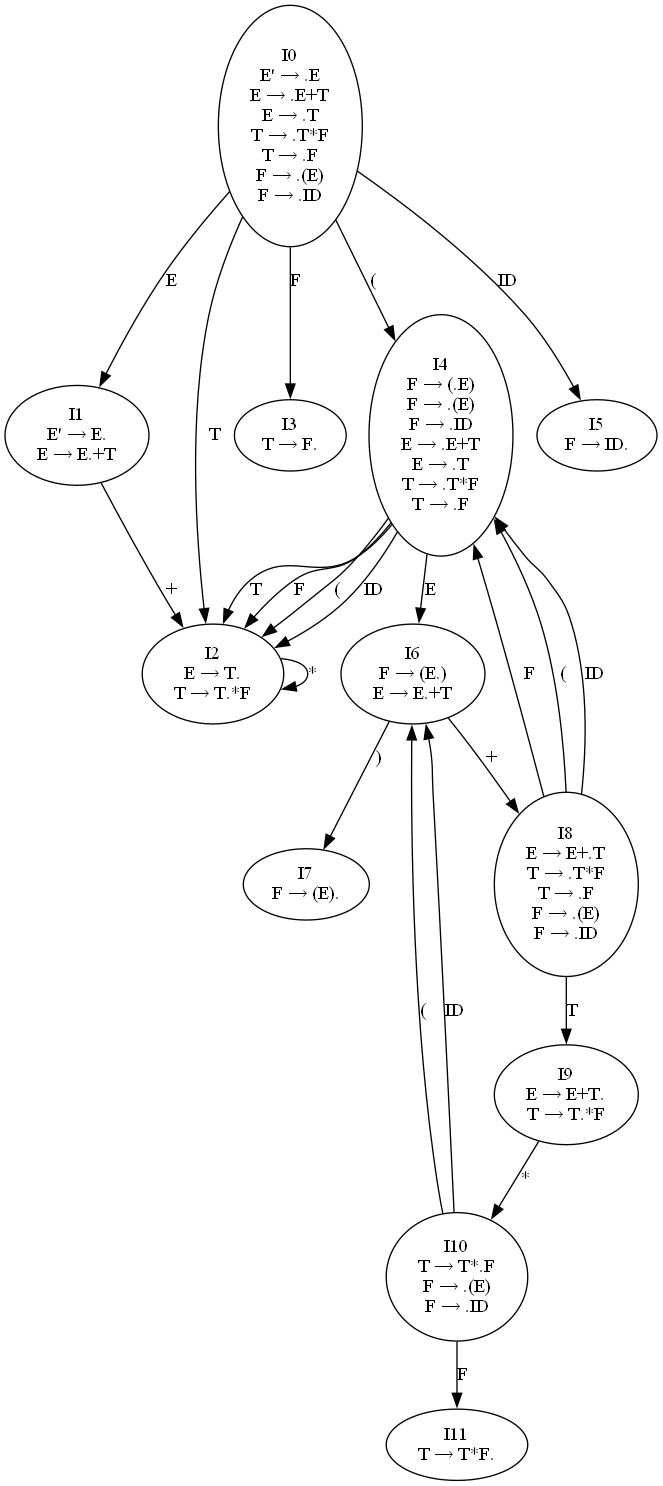
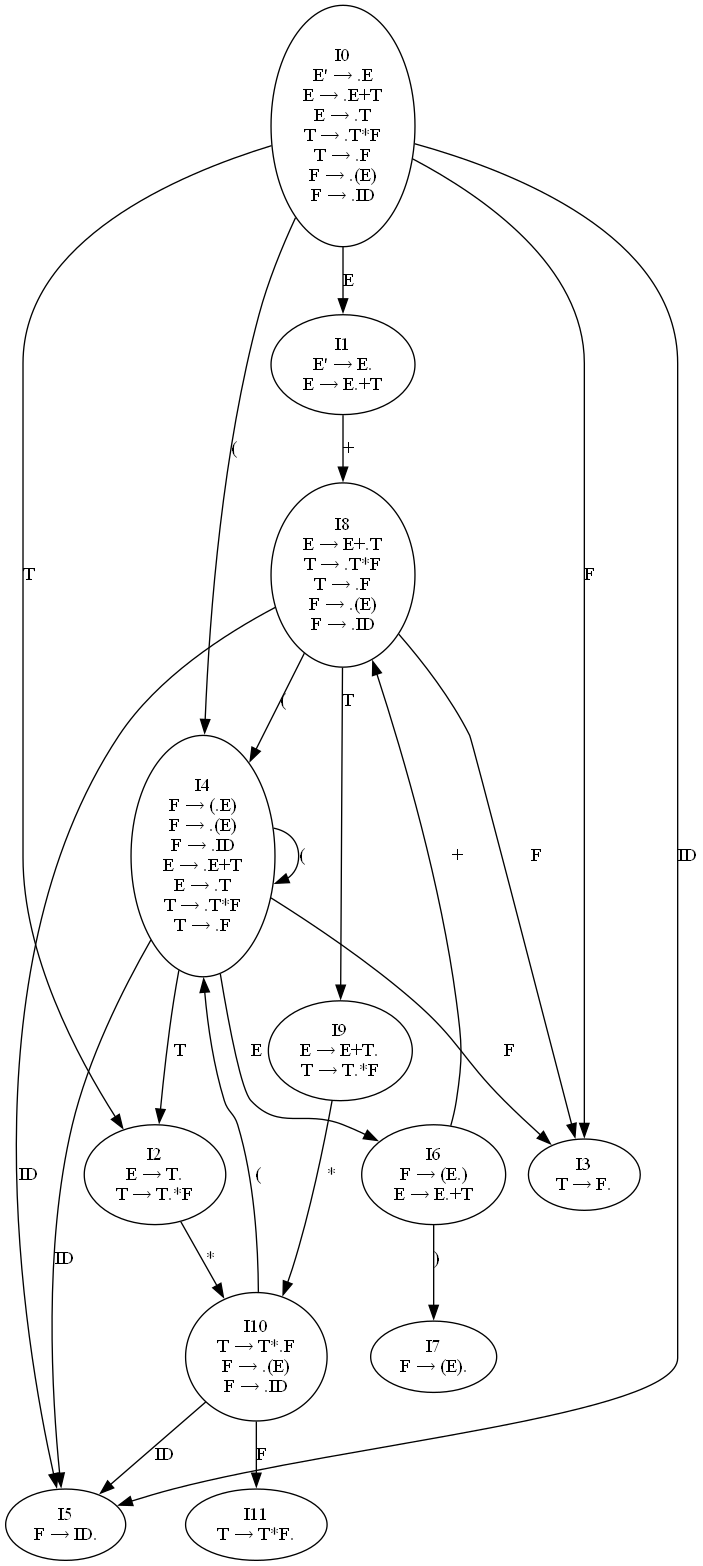
Video done, grammar tools done

diff --git a/pruebas/GrammarTools.py b/pruebas/GrammarTools.py
@@ -1,6 +1,15 @@
 from Grammar import Grammar
+from yalex_reader import build_regex, read_yalex_rules
+from AfnTools import createReAfn
+from ConjuntoAutomata import Conjunto, SyntaxAutomata
 
 conjuntos = dict()
+
+#res1 = {'E': ['(', 'ID'], 'T': ['(', 'ID'], 'F': ['(', 'ID']}
+#res2 = {'E': ['$', '+', ')'], 'T': ['*','$', '+', ')'], 'F': ['*','$', '+', ')']}
+
+res1 = {}
+res2 = {}
 
 #Recibe un simbolo y 
 def CheckEspsilon(Y, prod):
@@ -44,27 +53,110 @@ def primero(grammar: Grammar, X):
     true_temp = [[CheckEspsilon(symbol, producciones) for symbol in prod] for prod in temp]
     
     #Si X es un no terminal y hay una producción de la forma X-> y1y2..yk
-    if X in noterminales and temp:
-        for prod in range(len(temp)):
-            for symbol in range(len(temp[prod])):
-                if (new_symbol:=checkLeftRecursiveness(temp[prod][symbol], g.prod)):
-                    conjuntos[X].append(primero(g, new_symbol)) #primero(y1) pertenece a primero(X)
-                if symbol >0: #Para los siguientes símbolos
-                    if all(true_temp[prod][:symbol]):
-    
-                        new_symbol=checkLeftRecursiveness(temp[prod][symbol], g.prod)
-                        conjuntos[X].append(primero(g, new_symbol))
-                    elif all(true_temp[prod][symbol]):
-                        conjuntos[X].append('ε')
-    
+    if not grammar:
+        if X in noterminales and temp:
+            for prod in range(len(temp)):
+                for symbol in range(len(temp[prod])):
+                    if (new_symbol:=checkLeftRecursiveness(temp[prod][symbol], g.prod)):
+                        conjuntos[X].append(primero(g, new_symbol)) #primero(y1) pertenece a primero(X)
+                    if symbol >0: #Para los siguientes símbolos
+                        if all(true_temp[prod][:symbol]):
+        
+                            new_symbol=checkLeftRecursiveness(temp[prod][symbol], g.prod)
+                            conjuntos[X].append(primero(g, new_symbol))
+                        elif all(true_temp[prod][symbol]):
+                            conjuntos[X].append('ε')
+    return res1
+        
 
     
-def siguiente():
-    pass
+def siguiente(grammar, res_primero, X = None):
+    g = grammar
+    terminales = g.terminals
+    noterminales = g.nonterminals
+    producciones = g.prod
+    
+    if X not in conjuntos.keys():
+        conjuntos[X] = []
+        
+    #Si X es un terminal
+    if X in terminales:
+        conjuntos[X].append(X)
+        return
+    temp = list(producciones[X])
 
+    
+    #Si se tiene la producción X -> ε
+    if 'ε' in producciones[X]:
+        conjuntos[X].append('ε')
+        temp.remove('ε')
+        
+    #Recoger solo los temprales que tienen la forma y1y2...
+    temp = [i for i in temp if len(i)>=2]
+    
+    true_temp = [[CheckEspsilon(symbol, producciones) for symbol in prod] for prod in temp]
+    
+    #Si X es un no terminal y hay una producción de la forma X-> y1y2..yk
+    if not grammar:
+        if X in noterminales and temp:
+            for prod in range(len(temp)):
+                for symbol in range(len(temp[prod])):
+                    if (new_symbol:=checkLeftRecursiveness(temp[prod][symbol], g.prod)):
+                        conjuntos[X].append(primero(g, new_symbol)) #primero(y1) pertenece a primero(X)
+                    if symbol >0: #Para los siguientes símbolos
+                        if all(true_temp[prod][:symbol]):
+        
+                            new_symbol=checkLeftRecursiveness(temp[prod][symbol], g.prod)
+                            conjuntos[X].append(primero(g, new_symbol))
+                        elif all(true_temp[prod][symbol]):
+                            conjuntos[X].append('ε')
+    return res2
+
+
+def remove_comments(line):
+    if "/*" in line:
+        line = line[:line.index("/*")] + line[line.index("*/") + 2:]
+    return line
+
+
+def checkComments(line):
+    if "/*" in line:
+        return( "*/" in line[line.index("/*"):])
+    if "*/" in line:
+        return( "/*" in line[:line.index("*/")])
+    else:
+        return True
+    
+def checkTokenStructure(line):
+    if line[0]!="%":
+        return False
+    if len(line.split(' '))>2:
+        return False
+    if line.count('%')>1 and len(line)>2:
+        return False
+    if line[1]==" ":
+        return False
+    return True
+
+def checkProductionStructure(line):
+    
+    if line[0]!="|":
+        return False
+    if line.count('|')>1:
+
+        return False
+    if line[1]!=" ":
+        return False
+    return True
+    
+    
 
 def readYalp(filename):
     tokens = []
+    errors = []
+    line_counter = 1
+
+    
     removews = False
     getProductions = False
     productions = {}
@@ -84,48 +176,98 @@ def readYalp(filename):
     with open(filename, 'r', encoding='utf-8') as file:
         
         for line in file:
-            line = line.strip()
+            
+            # Remove comments and strip
+            if checkComments(line)==False:
+                errmess = f"Error en la línea {line_counter}. Comentario mal definido"
+                errors.append(errmess)
+
+            else:
+                line = remove_comments(line.strip())
+                
+          
+            
             if line[-1:] == "\n":
                 line = line[:-1]
             temp = line.split(" ")
-            if temp[0]== "%token":
-                tokens.append(temp[1])
+            if "%" in temp[0] and getProductions == False and '%%' not in temp[0]:
+                if checkTokenStructure(line)==False:
+                    errmess = f"Error en la línea {line_counter}. Token mal definido"
+                    errors.append(errmess)
+                else:
+                    tokens.append(temp[1])
             if temp[0]=='IGNORE':
                 removews = True
             if temp[0][:2]=="%%":
                 getProductions = True
+                line_counter+=1
+
                 continue
             if getProductions == True:
                 if temp[0]!="" and temp[0]!=";":
-                    if len(temp) < 2:
+                    if len(temp) < 2 and ':' in temp[0]:
                         idx = line.index(':')
                         symbol = line[:idx]
                         current_symbol = symbol.replace(symbol, trans_table[symbol])
                         productions[current_symbol] = []
                     else:
-                        if temp[0]=="|":
-                            temp2 = ''.join(temp[1:])
-                            for key in trans_table:
-                                temp2 = temp2.replace(key, trans_table[key])
-                            productions[current_symbol].append(temp2)
+                        if len(productions[current_symbol])>0:
+                            if checkProductionStructure(line)==False:
+                                errmess = f"Error en la línea {line_counter}. Error en la estructura de la produccion definida"
+                                errors.append(errmess)
+                            else:
+                                temp2 = ''.join(temp[1:])
+                                for key in trans_table:
+                                    temp2 = temp2.replace(key, trans_table[key])
+                                productions[current_symbol].append(temp2)
                         else:
                             temp2 = ''.join(temp)
                             for key in trans_table:
                                 temp2 = temp2.replace(key, trans_table[key])
                             productions[current_symbol].append(temp2)
+            line_counter+=1
+    if errors:
+        for i in errors:
+            print(i)
+        return None
 
     return productions, tokens
 
 
+
+def checkTokens(l1, l2):
+
+    for token in l2:
+        if token not in l1:
+            return False
+    return True
+
+
 if __name__ == '__main__':
-    prod = readYalp('./Yalp/slr-1.yalp')
-    
-    p1 = {'E':['E+T|T'], 'T':['T∗F|F']}
-    g = Grammar(*prod)
-    primero(g, g.initial)
-    print(conjuntos)
-    print('No Terminales: ', g.nonterminals)
-    print('Terminales: ', g.terminals)
-    print('Producciones: ', g.prod)
-    print('Tokens: ', g.tokens)
-    print('Inicial: ', g.initial)
+    if(prod:=readYalp('./Yalp/slr-1.yalp')):
+        afn = read_yalex_rules('./Yalp/slr-1.yal')
+        if(checkTokens(afn[1].values(), prod[1])):
+            g = Grammar(*prod)
+            print(" ")
+            print('No Terminales: ', g.nonterminals)
+            print('Terminales: ', g.terminals)
+            print('Producciones: ', g.prod)
+            print('Tokens: ', g.tokens)
+            print('Inicial: ', g.initial)
+            print(" ")
+            
+            p = primero(g, g.initial)
+            print(f'Primero: {p}')
+            
+            s = siguiente(g, p, X=g.initial)
+            print(f'Siguiente {s}')
+            
+            g.AugmentedGrammar()
+            
+            c0 = Conjunto(g, 0, corazon={g.initial: g.prod[g.initial]})
+
+            a1 = SyntaxAutomata(c0)
+            
+            a1.ShowGraph()
+        else:
+            print('Los tokens no son iguales entre archivos')

diff --git a/pruebas/ConjuntoAutomata.py b/pruebas/ConjuntoAutomata.py
@@ -1,5 +1,7 @@
 from Grammar import Grammar
-from GrammarTools import readYalp
+#from GrammarTools import readYalp
+from yalex_reader import build_regex, read_yalex_rules
+from AfnTools import createReAfn
 import networkx as nx
 import pydot
 from graphviz import Digraph
@@ -138,7 +140,7 @@ class SyntaxAutomata():
         self.edges = {}
         self.generateAutomata()
         self.changeNumbers()
-        #self.changeEdges()
+        self.changeEdges()
 
     def changeNumbers(self):
         for i in range(len(self.conjuntos)):
@@ -147,7 +149,7 @@ class SyntaxAutomata():
     def changeEdges(self):
         edges = self.edges
         new_edges = {}
-        
+
         visto = []
         
         #key -> tuple (conjunto1, conjunto2)
@@ -161,22 +163,23 @@ class SyntaxAutomata():
             if test[0]==False:
                 visto.append(a)
             else:
-                a = test[1]
+                a = visto[test[1]]
                 
             test = multicheck(vis, key[1].newprod)
             
             if test[0]==False:
                 visto.append(b)
             else:
-                b = test[1]
+                b = visto[test[1]]
                 
             new_edges[(a,b)] = value
+            
+        self.edges = new_edges.copy()
                 
             
             
                 
             
-        pass
 
     #Esta función sirve para sacar todos los conjuntos que pueden salir de un conjunto dado
     #Usa la función Ir_a para sacar dichos conjuntos. 
@@ -237,7 +240,7 @@ class SyntaxAutomata():
             print('')
             count +=1
             
-    def ShowGraph(self, name="graph.png"):
+    def ShowGraph(self, name="SyntaxAutomata"):
         G = Digraph(encoding='utf-8')
         
         for i in self.conjuntos:
@@ -254,7 +257,7 @@ class SyntaxAutomata():
             G.edge(str(key[0].number), str(key[1].number), label=value)
             
         
-        G.render(filename='SyntaxAutomata', directory='./outputs',format='png', view=True)
+        G.render(filename=name, directory='./outputs',format='png', view=True)
 
         
     
@@ -262,51 +265,16 @@ class SyntaxAutomata():
         
         
         
-if __name__ == '__main__':
-    if __name__ == '__main__':
-        prod = readYalp('./Yalp/slr-1.yalp')
+#if __name__ == '__main__':
+#    afn = read_yalex_rules('./Yalp/slr-1.yal')
+#    print(afn)
     
-    p1 = {'E':['E+T|T'], 'T':['T∗F|F']}
-    g = Grammar(*prod)
-    g.AugmentedGrammar()
-    #print(g.tokens)
-
-    c0 = Conjunto(g, 0, corazon={g.initial: g.prod[g.initial]})
-    
-    a1 = SyntaxAutomata(c0)
-    
-
-    a1.ShowGraph()
-    #for i in b:
-    #    print(i.newprod)
-    count = 1
-   
-    #b = a1.getConjuntos(c0)
-    
-
-    #print(c0.corazon)
-    #print('aaaaaa', c0.resto)
-    #c1 = c0.Ir_A('E')
-    #print(c1.newprod)
-    #print(c1.corazon)
-    #print(" ")
-    #
-    #c2 = c1.Ir_A('+')
-    #print(c2.corazon)
-    #print(c2.resto)
-    #print(" ")
-    #
-    #c3 = c2.Ir_A('T')
-    #print(c3.corazon)
-    #print(c3.resto)
-    #print(" ")
-    #
-    #c4 = c3.Ir_A('*')
-    #print(c4.corazon)
-    #print(c4.resto)
-#
-    ##print('No Terminales: ', g.nonterminals)
-    ##print('Terminales: ', g.terminals)
-    #print('Producciones: ', g.prod)
-    #print('Tokens: ', g.tokens)
-    #print('Inicial: ', g.initial)
+        #g = Grammar(*prod)
+        #g.AugmentedGrammar()
+        ##print(g.tokens)
+        #
+        #c0 = Conjunto(g, 0, corazon={g.initial: g.prod[g.initial]})
+        #
+        #a1 = SyntaxAutomata(c0)
+        #
+        #a1.ShowGraph()

diff --git a/README.md b/README.md
@@ -1,1 +1,1 @@
-## Link de [Youtube](https://youtu.be/mBCza4ZXfuA)
+## Link de [Youtube](https://youtu.be/oCUvvRWnt2o)
